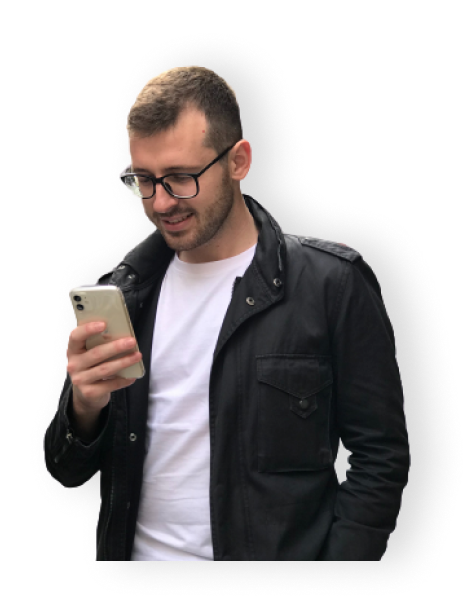
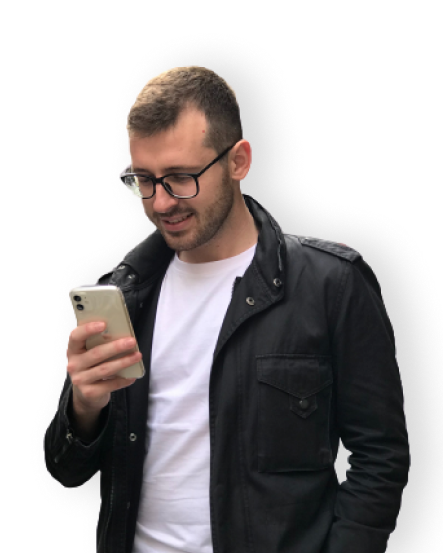
tailwind

diff --git a/syamsulamin/index.html b/syamsulamin/index.html
@@ -11,26 +11,56 @@
 </head>
 <body>
     <div id="app">
+        
         <section class="bg-secondary">
-            <div class="flex ">
-                <div class="flex-none w-16 h-16 ">
-                    Scroll
+            <div class="flex navbar justify-between bg-green-500 rounded-xl m-4">
+                <div class="p-4 logo">
+                    <img src="./assets/logo.png">
                 </div>
-                <div class="flex-grow ">
-                    <h4 class="text-2xl text-uppercase font-bold text-green-500">I'm Designer</h4>
-                    <h1>Ubaidillah Muhammad</h1>
-                    <p>Hi guys, I'm experience and an understanding of the web design and mobile design. Thank you for consideration</p>
-                    <button type="menu">What we do</button>
-                </div>
-                <div class="flex-grow">
-                    <img src="./assets/photo.png">
-                </div>
-                <div class="flex-none w-16 h-16 ">
-                    <i class="fab fa-facebook-f"></i>
-                    <i class="fab fa-twitter"></i>
-                    <i class="fab fa-dribbble"></i>
+                <div class="flex flex-col lg:flex-row justify-center">
+                    <a href="#" class=" px-4 py-5">Home</a>
+                    <a href="#" class=" px-4 py-5">About</a>
+                    <a href="#" class=" px-4 py-5">We Do</a>
+                    <a href="#" class=" px-4 py-5">Portfolio</a>
+                    <a href="#" class=" px-4 py-5">We Use</a>
+                    <a href="#" class=" px-4 py-5">FAQ</a>
+                    <a href="#" class=" px-4 py-5">Contact</a>
+                </div>                
+                <div class="toggle p-4">
+                     <svg class="w-8 h-8 text-white" xmlns="http://www.w3.org/2000/svg" fill="none" viewBox="0 0 24 24" stroke="currentColor">
+                        <path stroke-linecap="round" stroke-linejoin="round" stroke-width="2" d="M4 8h16M4 16h16" />
+                        <!-- <path stroke-linecap="round" stroke-linejoin="round" stroke-width="2" d="M6 18L18 6M6 6l12 12" /> -->
+                    </svg>
                 </div>
             </div>
+
+            <div class="flex">
+                <div class="flex items-end pl-5">
+                    <div class="py-3 rounded-xl px-4 m-2 bg-red-100 mb-6 text-red-700 font-bold">                                                
+                        <i class="fas fa-chevron-down"></i>
+                    </div>
+                </div>
+                <div class="flex-grow mt-8">
+                    <h4 class="text-2xl uppercase font-bold text-green-500">I'm Designer</h4>
+                    <h1 class="text-5xl font-bold text-gray-500  my-8">Ubaidillah Muhammad</h1>
+                    <p class="my-3 text-gray-400">Hi guys, I'm experience and an understanding of the web design and mobile design. Thank you for consideration</p>
+                    <button type="submit" class="py-3 px-16 rounded-full bg-red-500 text-white hover:bg-red-600 focus:outline-none focus:ring-2 focus:ring-purple-600 focus:ring-opacity-50 tracking-wider shadow-xl font-bold">Say Hello!</button>
+                    
+                </div>
+                <div class="flex-grow">
+                    <img class="w-96" src="./assets/photo.png">
+                </div>
+                <div class="flex items-end flex-col">
+                    <i class="fab fa-facebook-f color-facebook px-4 py-2 m-3"></i>
+                    <i class="fab fa-twitter color-twitter px-4 py-2 m-3"></i>
+                    <i class="fab fa-dribbble color-dribbble px-4 py-2 m-3"></i>
+                </div>
+            </div>
+
+        </section>
+
+        <section>
+
         </section>
     </div>
 

diff --git a/syamsulamin/styles.css b/syamsulamin/styles.css
@@ -7,8 +7,28 @@ html, body {
     background-color: #41454B;
 }
 
+.accent {
+    color: #49C2C7;
+}
+
 .bg-secondary {
     background-color: #F6F7F9;;
+}
+
+.color-twitter {
+    color: #55ACEE;
+}
+
+.color-facebook {
+    color: #395185;
+}
+
+.color-dribbble {
+    color: #FF4081;
+}
+
+.navbar a {
+    color: #fff;
 }
 
 #header {

diff --git a/syamsulamin/apps.js b/syamsulamin/apps.js
@@ -4,6 +4,7 @@ var app = new Vue({
         profile: {
             name: 'Syamsul Amin'
         },
+        isOpen: false,
         message: 'Ok'
     },
     
